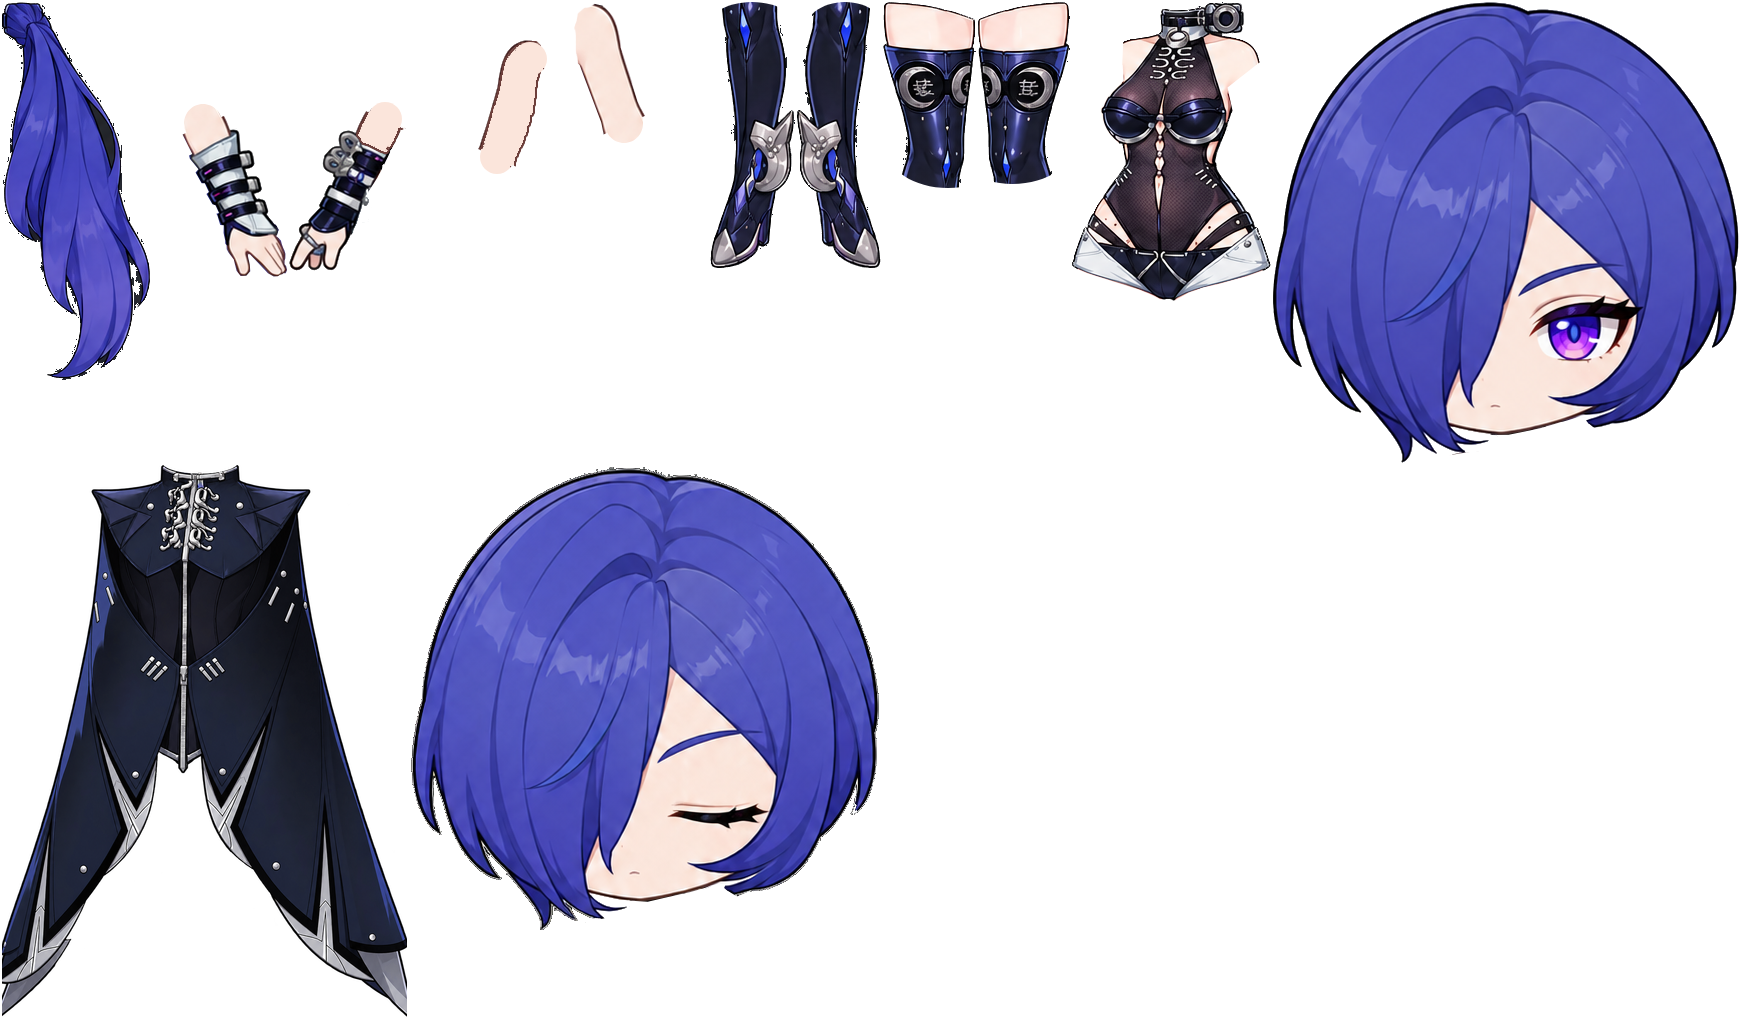
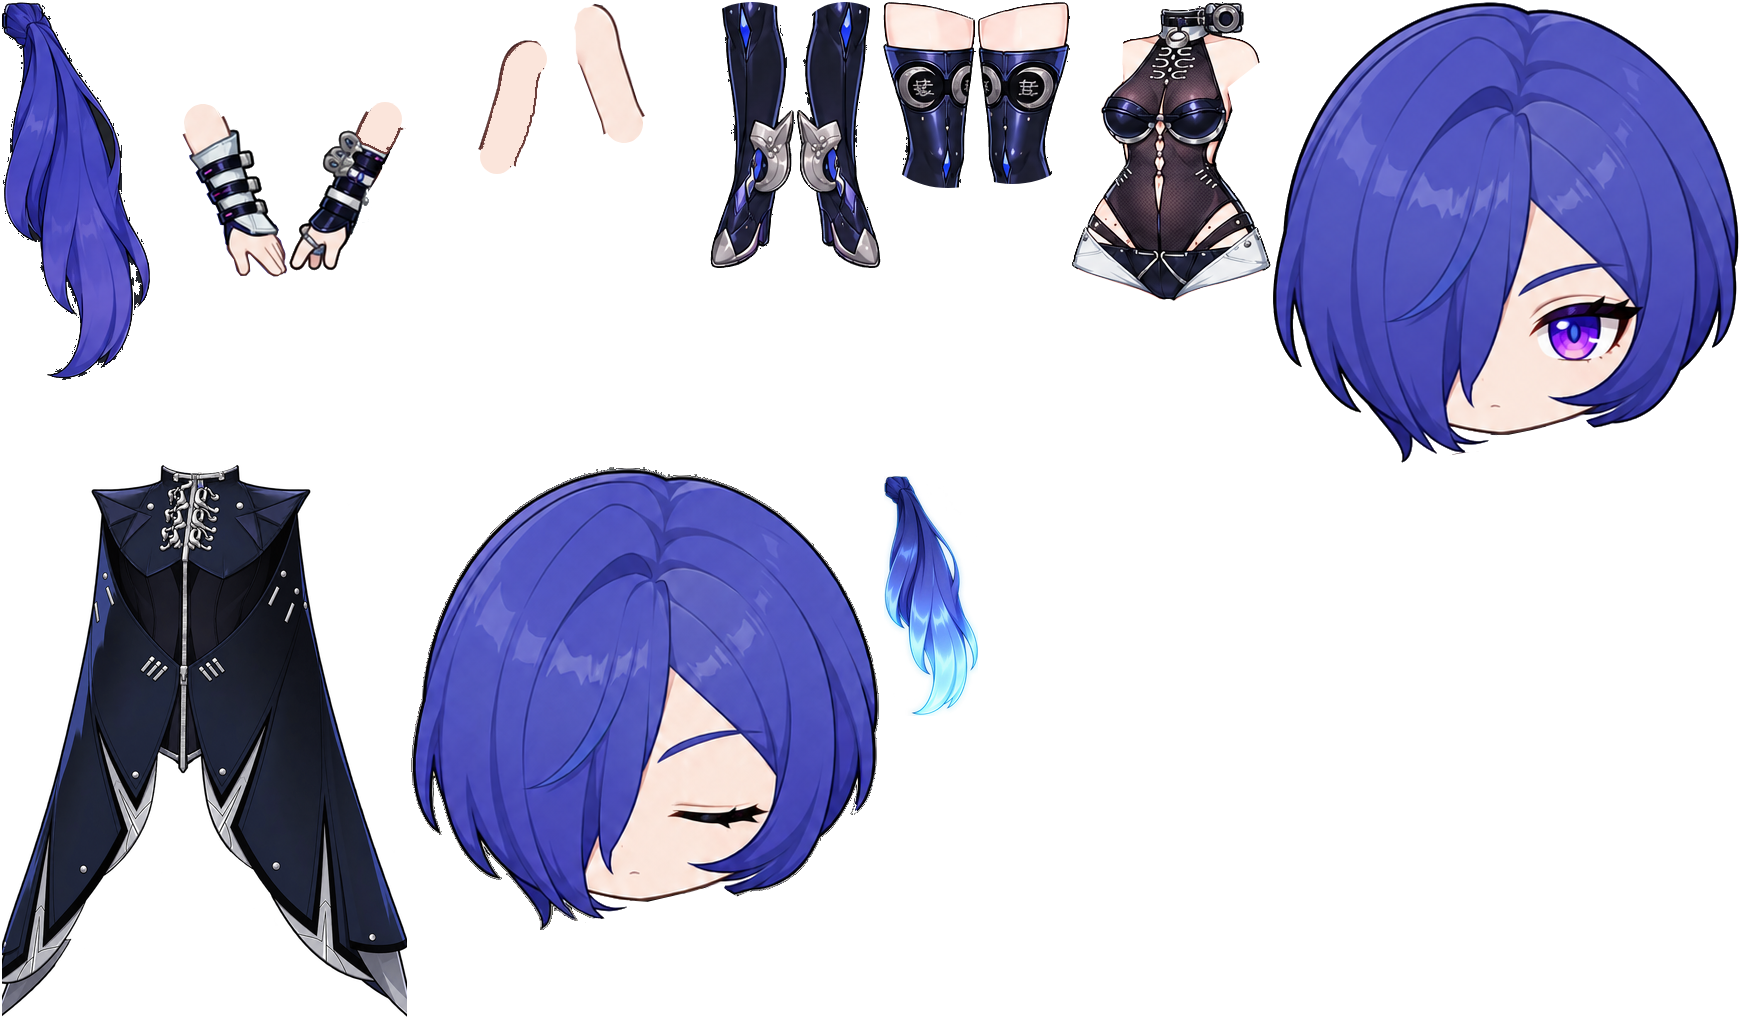
promeia: add sine-breathing ponytail glow during 背手 pose
- pack: add ponytail_illuminate region to atlas/page, overlay slot on the
  ponytail bone (setup alpha 0), and a 4s 发光呼吸 loop animation
  (slot alpha 0->1->0 via ease-in-out-sine bezier)
- renderer: track-1 glow lifecycle while 背手 pose holds; fade out from
  current alpha (0.6s) when leaving the pose; complete events from the
  looping glow no longer reset the pose
- tools: ponytail_glow.py packs the illuminate asset (dry-run default),
  preview_glow.cjs renders a two-track 背手+glow preview
- also lands prior uncommitted pose work in the same file: floating
  continues during pose playback/hold, complete listener returns pose
  to idle only within click context

Changed region(s): [[0.4963, 0.4688, 0.5583, 0.7188]]

diff --git a/src/renderer/renderers/SpinePetVisual.tsx b/src/renderer/renderers/SpinePetVisual.tsx
@@ -85,6 +85,12 @@ const EYE_SLOT_NAMES = [
 // 普罗米娅包（无 Mualani 眼部槽）：拖动闭眼 = head 槽换闭眼头附件
 const PROMEIYA_CLOSED_HEAD_ATTACHMENT = 'head_eye_eyeclosed'
 const HEAD_SLOT = 'head'
+// 普罗米娅马尾发光呼吸：背手姿势保持期间 track 1 循环"发光呼吸"（槽位 alpha 正弦），
+// 离开背手（解背手/冲浪/拖拽等）从当前值淡出后清轨道；重新入背手则从头循环
+const GLOW_POSE_ANIMATION = '背手'
+const GLOW_ANIMATION = '发光呼吸'
+const GLOW_SLOT = 'ponytail_illuminate'
+const GLOW_FADE_SECONDS = 0.6
 
 interface SurfBrakeState {
   brakeEntry: TrackEntry
@@ -104,6 +110,9 @@ interface SpineRuntime {
   swayTime: number
   dropSpringTime: number | null
   surfBrake: SurfBrakeState | null
+  // 马尾发光呼吸（promeia_back）：null=无发光（非背手姿势或无发光动画的包）；
+  // fading=true 期间从捕获的槽位 alpha 缓出至 0 后清 track 1
+  glowState: { fading: boolean; fadeFrom: number; fadeElapsed: number } | null
   baseRootRotation: number
   baseRootScaleX: number
   baseRootScaleY: number
@@ -278,6 +287,54 @@ function getCanvasVisualBounds(
   return { left, top, width, height, centerX: left + width / 2, centerY: top + height / 2 }
 }
 
+// 马尾发光呼吸的 track 1 生命周期：进入背手起循环，离开背手从当前槽位 alpha
+// 淡出（0.6s）后清轨道复位；重新入背手则从头循环。淡出期间每帧覆盖槽位 alpha
+function applyPonytailGlow(runtime: SpineRuntime): void {
+  const slot = runtime.skeleton.findSlot(GLOW_SLOT)
+  if (!slot) return
+  if (!runtime.skeleton.data.findAnimation(GLOW_ANIMATION)) return
+
+  const wantGlow = runtime.currentAnimationName === GLOW_POSE_ANIMATION
+  if (wantGlow) {
+    // 淡出中又回到背手：取消淡出，重新从头循环
+    if (runtime.glowState?.fading) runtime.glowState = null
+    if (!runtime.glowState) {
+      const entry = runtime.state.setAnimation(1, GLOW_ANIMATION, true)
+      entry.mixDuration = 0
+      runtime.glowState = { fading: false, fadeFrom: 0, fadeElapsed: 0 }
+    }
+    return
+  }
+  if (!runtime.glowState) return
+  if (!runtime.glowState.fading) {
+    // 捕获当前实际 alpha（呼吸中途离开则从当前亮度开始缓出）
+    const current = slot.color.a
+    runtime.state.clearTrack(1)
+    slot.setToSetupPose()
+    runtime.glowState = {
+      fading: true,
+      fadeFrom: current,
+      fadeElapsed: 0
+    }
+  }
+}
+
+// 淡出推进：在 state.apply 之后调用，逐帧接管发光槽 alpha 至 0 后清 track 1
+function advanceGlowFade(runtime: SpineRuntime, delta: number): void {
+  const slot = runtime.skeleton.findSlot(GLOW_SLOT)
+  if (!slot) return
+  const glow = runtime.glowState
+  if (!glow || !glow.fading) return
+  glow.fadeElapsed += delta
+  const progress = Math.min(1, glow.fadeElapsed / GLOW_FADE_SECONDS)
+  slot.color.a = glow.fadeFrom * (1 - progress)
+  if (progress >= 1) {
+    runtime.state.clearTrack(1)
+    slot.setToSetupPose()
+    runtime.glowState = null
+  }
+}
+
 function setDragExpression(skeleton: Skeleton, enabled: boolean): void {
   // 普罗米娅包：head 槽换闭眼头附件（包自带，中心已配准；睁眼头与闭眼头二选一不叠加）
   const headSlot = skeleton.findSlot(HEAD_SLOT)
@@ -402,13 +459,20 @@ export function SpinePetVisual({ pack, state, blinkIntervalSeconds, hitTestRef, 
           animationState.addListener({
             complete: (entry) => {
               const runtime = runtimeRef.current
+              // 发光呼吸在 track 1 循环，每轮 complete 不参与姿势调度
+              if (entry.animation?.name === GLOW_ANIMATION) return
               if (
                 runtime &&
                 entry.animation?.name !== IDLE_ANIMATION &&
                 !(runtime.currentAction === 'surf' && !entry.reverse)
               ) {
-                // 姿势动画（背手/解背手）播完停帧保持，不回退 idle
-                if (entry.animation?.name && POSE_ANIMATIONS.has(entry.animation.name)) return
+                // 姿势动画（背手/解背手）播完停帧保持，轨道与姿势名不回退 idle；
+                // 但行为上要归位 idle，否则浮动要等行为引擎分钟 tick 才恢复。
+                // 仅在仍处 click 语境时归位：播放期间被 drag 打断则保持 drag 状态
+                if (entry.animation?.name && POSE_ANIMATIONS.has(entry.animation.name)) {
+                  if (runtime.currentAction === 'click') runtime.currentAction = 'idle'
+                  return
+                }
                 runtime.currentAction = 'idle'
                 runtime.currentAnimationName = IDLE_ANIMATION
                 animationState.setAnimation(0, IDLE_ANIMATION, false)
@@ -427,6 +491,7 @@ export function SpinePetVisual({ pack, state, blinkIntervalSeconds, hitTestRef, 
             swayTime: 0,
             dropSpringTime: null,
             surfBrake: null,
+            glowState: null,
             baseRootRotation,
             baseRootScaleX,
             baseRootScaleY,
@@ -454,7 +519,12 @@ export function SpinePetVisual({ pack, state, blinkIntervalSeconds, hitTestRef, 
           if (!runtime) return
           runtime.swayTime += delta
           const rootBone = runtime.skeleton.getRootBone()
-          if (runtime.currentAction === 'idle') {
+          // 浮动只让位于拖拽/冲浪等接管 root 的动作；姿势动画（背手/解背手）
+          // 不含 root 时间线，播放与停帧期间浮动持续，避免切姿势时浮动消失
+          const floating =
+            runtime.currentAction === 'idle' ||
+            (runtime.currentAction === 'click' && POSE_ANIMATIONS.has(runtime.currentAnimationName))
+          if (floating) {
             const sway = Math.sin(runtime.swayTime * Math.PI)
             if (rootBone) rootBone.rotation = runtime.baseRootRotation + sway * 0.35
             runtime.skeleton.y = runtime.baseSkeletonY + Math.sin(runtime.swayTime * Math.PI * 2) * 1.5
@@ -464,6 +534,8 @@ export function SpinePetVisual({ pack, state, blinkIntervalSeconds, hitTestRef, 
           }
           runtime.state.update(delta)
           runtime.state.apply(runtime.skeleton)
+          applyPonytailGlow(runtime)
+          advanceGlowFade(runtime, delta)
           if (runtime.currentAction === 'drag' || runtime.dropSpringTime !== null) {
             setDragExpression(runtime.skeleton, true)
           }

diff --git a/tools/promeia/ponytail_glow.py b/tools/promeia/ponytail_glow.py
@@ -1,0 +1,127 @@
+# -*- coding: utf-8 -*-
+"""为 promeia_back 包加装马尾发光呼吸（ponytail_illuminate）。
+
+干跑默认；--apply 才写文件（写前备份 .bak）：
+  1. ponytail_illuminate.png 缩放后贴入 page.png 空白区
+  2. sp.atlas 追加 ponytail_illuminate 区域
+  3. promiya_back.json：ponytail 槽上方插入 ponytail_illuminate 叠加槽
+     （setup 颜色 alpha=0 隐藏，随 ponytail 骨骼联动）+ 默认皮肤附件
+     （与 ponytail 附件同 x/y/宽高/scale，像素级对位）+ "发光呼吸" 循环动画
+     （槽位 alpha 0→峰值→0，ease-in-out-sine 贝塞尔）
+"""
+import json
+import shutil
+import sys
+from PIL import Image
+
+PACK = "D:/pet/packs/promeia_back"
+SRC = "D:/pet-promiya/pet_reference/promiya/gpt_generate/spine_parts/selected"
+
+# 呼吸参数（可调）
+GLOW_PERIOD = 4.0     # 呼吸周期（秒）
+GLOW_PEAK = 1.0       # 峰值 alpha（0→1→0 完整变化）
+# ease-in-out-sine 归一化贝塞尔
+SINE = (0.37, 0.0, 0.63, 1.0)
+
+# 图集页内空白区（经区域占用核算：head_eye_eyeclosed 右边界 x≤881，下方 y≥465 全空）
+GLOW_REGION = {"x": 884, "y": 476, "w": 94, "h": 240}
+
+
+def sine_seg(t0, v0, t1, v1):
+    px1, py1, px2, py2 = SINE
+    return [
+        round(t0 + (t1 - t0) * px1, 4), round(v0 + (v1 - v0) * py1, 4),
+        round(t0 + (t1 - t0) * px2, 4), round(v0 + (v1 - v0) * py2, 4),
+    ]
+
+
+def alpha_keys():
+    half = GLOW_PERIOD / 2
+    return [
+        {"time": 0, "value": 0, "curve": sine_seg(0, 0, half, GLOW_PEAK)},
+        {"time": half, "value": GLOW_PEAK, "curve": sine_seg(half, GLOW_PEAK, GLOW_PERIOD, 0)},
+        {"time": GLOW_PERIOD, "value": 0},
+    ]
+
+
+def build():
+    atlas_path = f"{PACK}/sp.atlas"
+    page_path = f"{PACK}/page.png"
+    skel_path = f"{PACK}/promiya_back.json"
+
+    atlas = open(atlas_path, encoding="utf-8").read()
+    assert "ponytail_illuminate" not in atlas, "atlas 已有 ponytail_illuminate"
+
+    # 核算 GLOW_REGION 不与既有区域重叠
+    import re
+    for m in re.finditer(r"bounds:(\d+),(\d+),(\d+),(\d+)", atlas):
+        bx, by, bw, bh = map(int, m.groups())
+        r = GLOW_REGION
+        overlap = not (r["x"] + r["w"] <= bx or bx + bw <= r["x"] or
+                       r["y"] + r["h"] <= by or by + bh <= r["y"])
+        assert not overlap, f"GLOW_REGION 与区域 bounds:{bx},{by},{bw},{bh} 重叠"
+
+    page = Image.open(page_path)
+    assert GLOW_REGION["x"] + GLOW_REGION["w"] <= page.width
+    assert GLOW_REGION["y"] + GLOW_REGION["h"] <= page.height
+
+    glow = Image.open(f"{SRC}/ponytail_illuminate.png").convert("RGBA")
+    glow_small = glow.resize((GLOW_REGION["w"], GLOW_REGION["h"]), Image.LANCZOS)
+    page_out = page.convert("RGBA").copy()
+    page_out.paste(glow_small, (GLOW_REGION["x"], GLOW_REGION["y"]))
+
+    skel = json.load(open(skel_path, encoding="utf-8"))
+
+    # 叠加槽：紧跟 ponytail 之后（绘制顺序在马尾之上、其余部件之下）
+    slots = [s["name"] for s in skel["slots"]]
+    assert "ponytail_illuminate" not in slots
+    idx = slots.index("ponytail") + 1
+    skel["slots"].insert(idx, {
+        "name": "ponytail_illuminate",
+        "bone": "ponytail",
+        "attachment": "ponytail_illuminate",
+        "color": "ffffff00",
+    })
+
+    base_att = skel["skins"][0]["attachments"]["ponytail"]["ponytail"]
+    glow_att = dict(base_att)
+    skel["skins"][0]["attachments"]["ponytail_illuminate"] = {
+        "ponytail_illuminate": glow_att
+    }
+
+    assert "发光呼吸" not in skel["animations"]
+    skel["animations"]["发光呼吸"] = {
+        "slots": {
+            "ponytail_illuminate": {"alpha": alpha_keys()}
+        }
+    }
+
+    atlas_out = atlas.rstrip("\n") + "\n" + \
+        f"ponytail_illuminate\nbounds:{GLOW_REGION['x']},{GLOW_REGION['y']},{GLOW_REGION['w']},{GLOW_REGION['h']}\n"
+
+    summary = {
+        "atlas region": atlas_out.strip().splitlines()[-2:],
+        "slot insert index": idx,
+        "glow attachment": glow_att,
+        "animation keys": skel["animations"]["发光呼吸"],
+    }
+    return summary, {
+        skel_path: json.dumps(skel, ensure_ascii=False, indent=2),
+        atlas_path: atlas_out,
+        page_path: page_out,
+    }
+
+
+if __name__ == "__main__":
+    summary, outputs = build()
+    print(json.dumps(summary, ensure_ascii=False, indent=2))
+    if "--apply" not in sys.argv:
+        print("\n[dry-run] 未写入。加 --apply 写入（自动 .bak 备份）。")
+        sys.exit(0)
+    for path, content in outputs.items():
+        shutil.copy2(path, path + ".bak")
+        if isinstance(content, Image.Image):
+            content.save(path)
+        else:
+            open(path, "w", encoding="utf-8", newline="\n").write(content)
+        print("written:", path)
